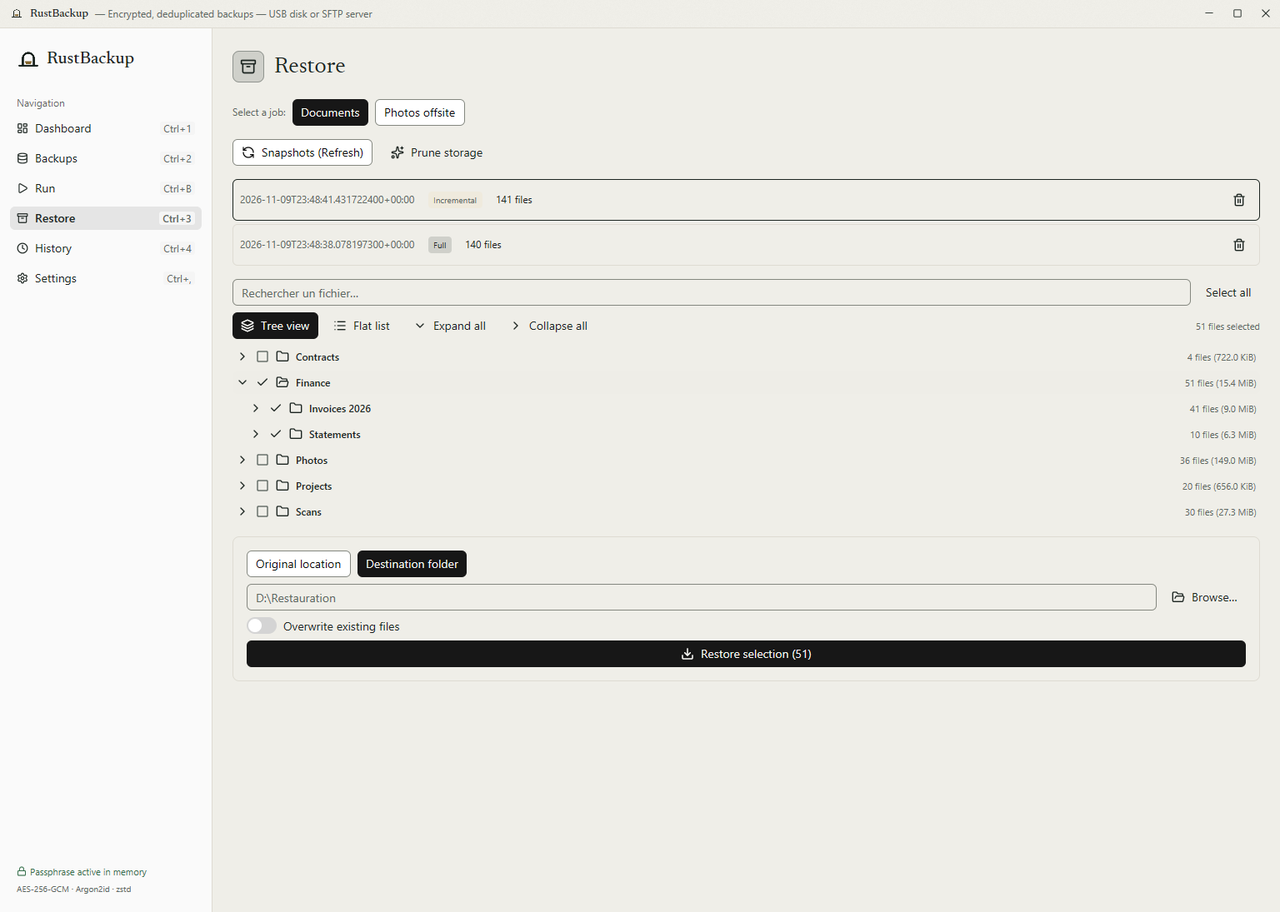
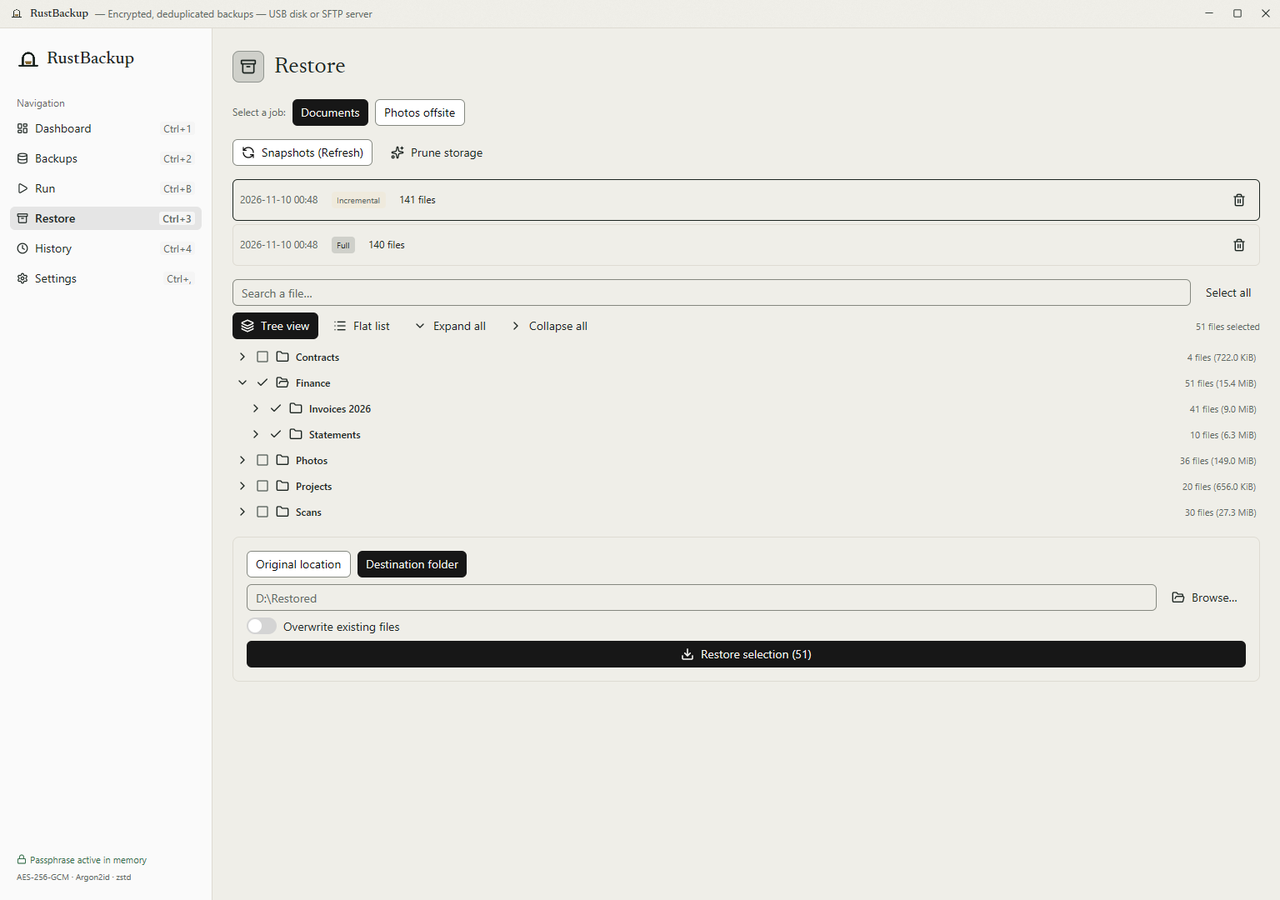
feat(gui): English UI polish, single theme control, fresh English screenshots and animation

diff --git a/src/app.rs b/src/app.rs
@@ -272,8 +272,7 @@ impl RustBackupApp {
             form_name: cx.new(|cx| InputState::new(window, cx).placeholder("documents")),
             form_source: cx
                 .new(|cx| InputState::new(window, cx).placeholder(r"C:\Users\moi\Documents")),
-            form_dest: cx
-                .new(|cx| InputState::new(window, cx).placeholder(r"E:\Sauvegardes\depot")),
+            form_dest: cx.new(|cx| InputState::new(window, cx).placeholder(r"E:\Backups\repo")),
             form_is_sftp: false,
             form_sftp_host: cx
                 .new(|cx| InputState::new(window, cx).placeholder("backup.example.com")),
@@ -316,8 +315,7 @@ impl RustBackupApp {
                 InputState::new(window, cx)
                     .placeholder(crate::i18n::Lang::default().texts().search_files)
             }),
-            restore_target: cx
-                .new(|cx| InputState::new(window, cx).placeholder(r"D:\Restauration")),
+            restore_target: cx.new(|cx| InputState::new(window, cx).placeholder(r"D:\Restored")),
             selected_paths: std::collections::BTreeSet::new(),
             restore_to_original: false,
             restore_overwrite: false,
@@ -373,6 +371,20 @@ impl RustBackupApp {
         })
         .detach();
         app
+    }
+
+    /// The search box placeholder is fixed at creation: recreate it on a
+    /// language switch so it follows the UI language.
+    fn rebuild_search_input(&mut self, window: &mut gpui::Window, cx: &mut gpui::Context<Self>) {
+        let placeholder = self.texts().search_files;
+        self.restore_search = cx.new(|cx| InputState::new(window, cx).placeholder(placeholder));
+    }
+
+    /// RFC 3339 timestamp from the catalog, shown in local time.
+    fn display_date(&self, raw: &str) -> String {
+        chrono::DateTime::parse_from_rfc3339(raw)
+            .map(|dt| format_local(dt.with_timezone(&chrono::Utc), self.lang))
+            .unwrap_or_else(|_| raw.to_string())
     }
 
     fn texts(&self) -> &'static i18n::Texts {
@@ -2032,7 +2044,7 @@ impl RustBackupApp {
                                 .gap_2()
                                 .child(
                                     Button::new("comp-0")
-                                        .label("0 (aucun)")
+                                        .label(t.level_none)
                                         .when(self.form_compression == 0, |b| b.primary())
                                         .on_click(cx.listener(|this, _, _, cx| {
                                             this.form_compression = 0;
@@ -2041,7 +2053,7 @@ impl RustBackupApp {
                                 )
                                 .child(
                                     Button::new("comp-1")
-                                        .label("1 (rapide)")
+                                        .label(t.level_fast)
                                         .when(self.form_compression == 1, |b| b.primary())
                                         .on_click(cx.listener(|this, _, _, cx| {
                                             this.form_compression = 1;
@@ -2050,7 +2062,7 @@ impl RustBackupApp {
                                 )
                                 .child(
                                     Button::new("comp-5")
-                                        .label("5 (équilibré)")
+                                        .label(t.level_balanced)
                                         .when(self.form_compression == 5, |b| b.primary())
                                         .on_click(cx.listener(|this, _, _, cx| {
                                             this.form_compression = 5;
@@ -2059,7 +2071,7 @@ impl RustBackupApp {
                                 )
                                 .child(
                                     Button::new("comp-15")
-                                        .label("15 (max)")
+                                        .label(t.level_high)
                                         .when(self.form_compression == 15, |b| b.primary())
                                         .on_click(cx.listener(|this, _, _, cx| {
                                             this.form_compression = 15;
@@ -2648,7 +2660,7 @@ impl RustBackupApp {
                                 div()
                                     .text_size(px(12.0))
                                     .text_color(cx.theme().muted_foreground)
-                                    .child(row.created_at.clone()),
+                                    .child(self.display_date(&row.created_at)),
                             )
                             .child(
                                 div()
@@ -2693,7 +2705,7 @@ impl RustBackupApp {
                         .icon(IconName::Trash)
                         .on_click(cx.listener({
                             let entity = cx.entity().clone();
-                            let snap_date = row.created_at.clone();
+                            let snap_date = self.display_date(&row.created_at);
                             move |this, _, window, cx| {
                                 let entity = entity.clone();
                                 let snap_date = snap_date.clone();
@@ -3445,7 +3457,7 @@ impl RustBackupApp {
                                 div()
                                     .w(px(180.0))
                                     .text_color(cx.theme().muted_foreground)
-                                    .child(outcome.finished_at.to_rfc3339()),
+                                    .child(format_local(outcome.finished_at, self.lang)),
                             )
                             .child(
                                 div()
@@ -3527,8 +3539,9 @@ impl RustBackupApp {
                                 Button::new("lang-fr")
                                     .label("Français")
                                     .when(self.lang == Lang::Fr, |b| b.primary())
-                                    .on_click(cx.listener(|this, _, _, cx| {
+                                    .on_click(cx.listener(|this, _, window, cx| {
                                         this.lang = Lang::Fr;
+                                        this.rebuild_search_input(window, cx);
                                         cx.notify();
                                     })),
                             )
@@ -3536,8 +3549,9 @@ impl RustBackupApp {
                                 Button::new("lang-en")
                                     .label("English")
                                     .when(self.lang == Lang::En, |b| b.primary())
-                                    .on_click(cx.listener(|this, _, _, cx| {
+                                    .on_click(cx.listener(|this, _, window, cx| {
                                         this.lang = Lang::En;
+                                        this.rebuild_search_input(window, cx);
                                         cx.notify();
                                     })),
                             ),
@@ -3571,16 +3585,13 @@ impl RustBackupApp {
                             .gap_4()
                             .items_center()
                             .child(
-                                Switch::new("theme-switch")
-                                    .checked(self.dark)
-                                    .label(if self.dark {
-                                        t.theme_dark
-                                    } else {
-                                        t.theme_light
-                                    })
-                                    .on_change(cx.listener(|this, checked, _, cx| {
-                                        this.dark = *checked;
-                                        theme::apply_brand_theme(this.dark, cx);
+                                Button::new("theme-light")
+                                    .ghost()
+                                    .label(t.theme_light)
+                                    .when(!self.dark, |b| b.primary())
+                                    .on_click(cx.listener(|this, _, _, cx| {
+                                        this.dark = false;
+                                        theme::apply_brand_theme(false, cx);
                                         cx.notify();
                                     })),
                             )
@@ -3592,17 +3603,6 @@ impl RustBackupApp {
                                     .on_click(cx.listener(|this, _, _, cx| {
                                         this.dark = true;
                                         theme::apply_brand_theme(true, cx);
-                                        cx.notify();
-                                    })),
-                            )
-                            .child(
-                                Button::new("theme-light")
-                                    .ghost()
-                                    .label(t.theme_light)
-                                    .when(!self.dark, |b| b.primary())
-                                    .on_click(cx.listener(|this, _, _, cx| {
-                                        this.dark = false;
-                                        theme::apply_brand_theme(false, cx);
                                         cx.notify();
                                     })),
                             ),

diff --git a/src/i18n.rs b/src/i18n.rs
@@ -138,6 +138,14 @@ pub struct Texts {
     pub catalog_unreadable: &'static str,
     /// History table: date column header.
     pub date_col: &'static str,
+    /// zstd level buttons in the job form.
+    pub level_none: &'static str,
+    /// zstd level 1.
+    pub level_fast: &'static str,
+    /// zstd level 5 (default).
+    pub level_balanced: &'static str,
+    /// zstd level 15.
+    pub level_high: &'static str,
     /// Button: verify (quick).
     pub verify: &'static str,
     /// Files selected counter.
@@ -328,6 +336,10 @@ pub const FR: Texts = Texts {
     snapshots_need_passphrase: "Des instantanés existent : définissez la phrase secrète dans Paramètres, puis cliquez sur Actualiser.",
     catalog_unreadable: "Catalogue illisible (verrouillé par un autre processus ?) : nouvelle tentative automatique.",
     date_col: "Date",
+    level_none: "0 (aucune)",
+    level_fast: "1 (rapide)",
+    level_balanced: "5 (équilibrée)",
+    level_high: "15 (élevée)",
     verify: "Vérifier",
     selected_files: "fichiers sélectionnés",
     passphrase_needed: "Définissez la phrase secrète dans Paramètres.",
@@ -456,6 +468,10 @@ pub const EN: Texts = Texts {
     snapshots_need_passphrase: "Snapshots exist: set the passphrase in Settings, then click Refresh.",
     catalog_unreadable: "Catalog unreadable (locked by another process?): retrying automatically.",
     date_col: "Date",
+    level_none: "0 (none)",
+    level_fast: "1 (fast)",
+    level_balanced: "5 (balanced)",
+    level_high: "15 (high)",
     verify: "Verify",
     selected_files: "files selected",
     passphrase_needed: "Set the passphrase in Settings.",
